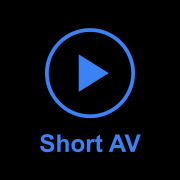
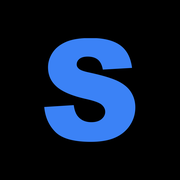
feat: 上の帯にサイト名・PR・FANZA のクレジット（下の帯のクレジットは削除）、ファビコンとホーム画面のアイコンを黒地に青い S に
- スマホの上の帯: 左に「Short AV [PR]」と「Powered by FANZA Webサービス」の2段。切り替えはメニューの隣へ寄せた
- 「4分以上」で見ている間の上の帯の表示は短く「4分以上（n本）」
- favicon.ico を追加、icon-192/512・apple-touch-icon を差し替え
- sql/030: アニメの作品の表（anime_videos。videos と同じ形）

Changed region(s): [[0.2222, 0.1389, 0.7778, 0.8611]]

diff --git a/app/components/VideoSwiper.tsx b/app/components/VideoSwiper.tsx
@@ -1066,10 +1066,11 @@ export default function VideoSwiper({ videos: initialVideos, startIndex = 0, isF
     setScrollSeq((n) => n + 1);
   }, [mode, isFiniteList, videos, currentIndex, doujinList, initialVideos]);
 
-  const modeToggle = longCount !== null ? (
+  // compact: スマホの上の帯（左にサイト名があるので短く「4分以上（n本）」にする。2026-10-31）
+  const modeToggle = (compact = false) => longCount !== null ? (
     // 「4分以上」で見ている間は、その表示と、普段の並びに戻るボタン
-    <div className="inline-flex items-center gap-1.5 rounded-full bg-gradient-to-b from-amber-300 to-amber-500 pl-3 pr-1 py-0.5 text-sm font-bold text-gray-950 shadow-lg shadow-amber-500/30">
-      <span>{t('longSampleNow')}（{longCount}{t('worksUnit')}）</span>
+    <div className={`inline-flex items-center gap-1.5 rounded-full bg-gradient-to-b from-amber-300 to-amber-500 pr-1 py-0.5 font-bold ${compact ? 'pl-2.5 text-xs' : 'pl-3 text-sm'} text-gray-950 shadow-lg shadow-amber-500/30`}>
+      <span>{compact ? t('longSample4') : t('longSampleNow')}（{longCount}{t('worksUnit')}）</span>
       <button
         type="button"
         onClick={() => {
@@ -1091,7 +1092,7 @@ export default function VideoSwiper({ videos: initialVideos, startIndex = 0, isF
           role="tab"
           aria-selected={mode === key}
           onClick={() => switchMode(key)}
-          className={`rounded-full px-5 py-1 transition-colors ${mode === key ? (key === 'doujin' ? 'bg-pink-600 text-white' : 'bg-white text-black') : 'text-gray-300'}`}
+          className={`rounded-full px-4 py-1 transition-colors ${mode === key ? (key === 'doujin' ? 'bg-pink-600 text-white' : 'bg-white text-black') : 'text-gray-300'}`}
         >
           {key === 'video' ? t('modeVideo') : t('modeDoujin')}
         </button>
@@ -1112,12 +1113,25 @@ export default function VideoSwiper({ videos: initialVideos, startIndex = 0, isF
           {notice}
         </div>
       )}
-      {/* 上の帯（縦画面のみ）: 広告の表示（PR）・「動画｜同人誌」の切り替え・記事のボタンを1行に。
-          ホーム画面アプリでは時計の分（safe-area）だけ上に余白を取る。FANZA のクレジットは下の帯に出す */}
+      {/* 上の帯（縦画面のみ）: 左にサイト名・広告の表示（PR）・FANZA のクレジット、右に「動画｜同人誌」の切り替えとメニュー。
+          ホーム画面アプリでは時計の分（safe-area）だけ上に余白を取る。
+          2026-10-31: 左上の PR だけだったのを、サイト名とクレジットの2段にした（クレジットは下の帯から移した）。切り替えはサイト名と重ならないよう右に寄せた */}
       <div ref={topBarRef} className="landscape:hidden lg:hidden fixed left-0 right-0 top-0 z-40 pt-[env(safe-area-inset-top)] bg-black/70 backdrop-blur-sm">
-        <div className="relative h-11 flex items-center justify-center">
-        <span className="absolute left-3 bg-yellow-400 text-black px-1.5 rounded-sm text-xs font-bold leading-4">PR</span>
-        {modeToggle}
+        <div className="relative h-11 flex items-center justify-end pr-[52px]">
+        <div className="absolute left-3 flex flex-col items-start leading-none">
+          <span className="flex items-center gap-1">
+            <span className="text-[15px] font-extrabold tracking-tight text-white">Short AV</span>
+            <span className="bg-yellow-400 text-black px-1 rounded-sm text-[9px] font-bold leading-[13px]">PR</span>
+          </span>
+          <span className="mt-[3px] whitespace-nowrap text-[8.5px] text-gray-300">
+            {enableAffiliateLinks ? (
+              <>Powered by <a href="https://affiliate.dmm.com/api/" target="_blank" rel="noopener noreferrer" className="text-blue-400">FANZA Webサービス</a></>
+            ) : (
+              'サイト認証後に表示'
+            )}
+          </span>
+        </div>
+        {modeToggle(true)}
         {/* 右から出るメニュー（記事・よくある質問・プライバシーポリシーなど。2026-10-31 に記事のボタンから変更） */}
         <button
           type="button"
@@ -1415,7 +1429,7 @@ export default function VideoSwiper({ videos: initialVideos, startIndex = 0, isF
       {/* 右側固定エリア - 横画面時・PC時のみ表示 */}
       <div ref={sidePanelRef} className="hidden landscape:flex landscape:fixed landscape:right-0 landscape:top-0 landscape:w-[45%] landscape:h-full landscape:flex-col landscape:justify-center landscape:gap-4 landscape:py-4 landscape:px-4 landscape:z-20 landscape:pointer-events-auto lg:flex lg:fixed lg:right-0 lg:top-0 lg:w-[45%] lg:!w-[22rem] lg:h-full lg:flex-col lg:justify-center lg:!justify-start lg:gap-4 lg:py-6 lg:!pt-10 lg:px-6 lg:!px-5 lg:!bg-gray-950/60 lg:!border-l lg:!border-gray-800 lg:z-20 lg:pointer-events-auto">
         {/* 「動画｜同人誌」の切り替え（横画面・PC） */}
-        <div className="flex-shrink-0 flex justify-center">{modeToggle}</div>
+        <div className="flex-shrink-0 flex justify-center">{modeToggle()}</div>
         {/* PC: キャンペーン（10円セールなど）の期間中は、公式バナー（300×250）を商品ウィジェットの上に出す。
             PC では横長バナー（640×200）を出す場所が無く、キャンペーンのバナーがどこにも出ていなかった（2026-10-27 ユーザーの指摘）。同人誌のとき・海外の人には出さない */}
         {enableAffiliateLinks && !isOverseas && !doujinMode && isCampaignActive() && (
@@ -1789,15 +1803,8 @@ export default function VideoSwiper({ videos: initialVideos, startIndex = 0, isF
             )}
           </div>
 
-          {/* 記事一覧・プライバシーポリシー・利用規約・お問い合わせは右から出るメニューへ移した（2026-10-31） */}
-          {/* FANZA のクレジット（以前は画面上部の帯に出していた） */}
-          <p className="mt-1 text-center text-[10px] text-gray-500">
-            {enableAffiliateLinks ? (
-              <>Powered by <a href="https://affiliate.dmm.com/api/" target="_blank" rel="noopener noreferrer" className="text-blue-400">FANZA Webサービス</a></>
-            ) : (
-              'サイト認証後に表示'
-            )}
-          </p>
+          {/* 記事一覧・プライバシーポリシー・利用規約・お問い合わせは右から出るメニューへ移した（2026-10-31）。
+              FANZA のクレジットは上の帯のサイト名の下へ移した（同日） */}
         </div>
       </div>
 

diff --git a/app/layout.tsx b/app/layout.tsx
@@ -75,6 +75,9 @@ export default function RootLayout({
       <head>
         <GoogleAnalytics />
         {/* PWA設定 */}
+        {/* ブラウザのタブの印（黒地に青い S。2026-10-31） */}
+        <link rel="icon" href="/favicon.ico" sizes="48x48" />
+        <link rel="icon" href="/icon-192x192.png" type="image/png" sizes="192x192" />
         <link rel="apple-touch-icon" href="/apple-touch-icon.png" />
         <meta name="apple-mobile-web-app-capable" content="yes" />
         <meta name="apple-mobile-web-app-status-bar-style" content="black-translucent" />
